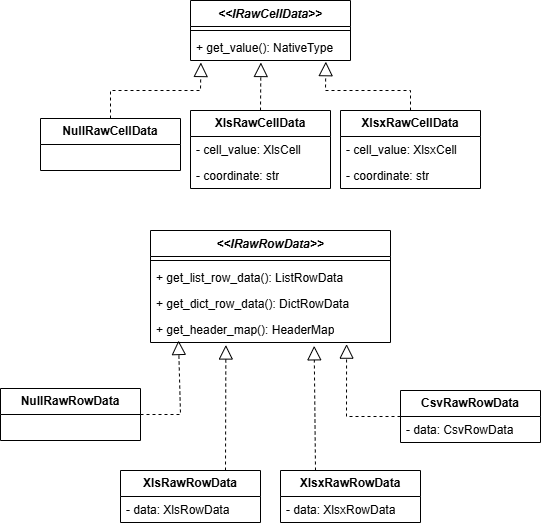
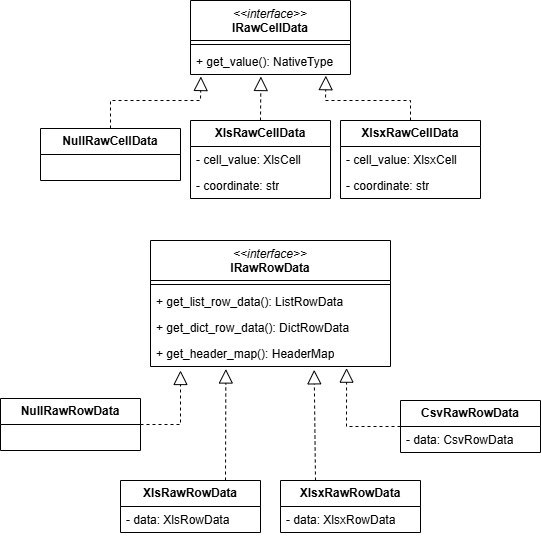
Squashed 'text/' changes from efe23f1..ae8d4e9
ae8d4e9 Update on Overleaf.

git-subtree-dir: text
git-subtree-split: ae8d4e9b5d9d9299ba617012026ecc32f024b474

diff --git a/ctufit-thesis.tex b/ctufit-thesis.tex
@@ -108,6 +108,7 @@
 \usepackage{xurl}
 \usepackage{listings} % typesetting of sources
 \usepackage{float}
+\usepackage{tabularx}
 %\usepackage{minted}
 
 %%%%%%%%%%%%%%%%%%%%%%
@@ -184,8 +185,20 @@
 \begin{tabular}{rl}
 	UI    & User Interface \\
     DIP   & Dependency Inversion Principle \\
+    OOP   & Object oriented programming \\
     XML   & Extensible Markup Language \\
     JSON  & JavaScript Object Notation \\
+    PyPI  & Python Package Index \\
+    RPA   & Robot Process Automation \\
+    HTTP  & HyperText Transfer Protocol \\
+    API   & Aplication Programing Interface \\
+    RF    & Robot Framework \\
+    DDT   & Data-Driven Tests \\
+    DOM   & Document Object Model \\
+    IDE   & Integrated Development Enviroment \\
+    BIFF8 & Binary Interchange File Format version 8 \\
+    DF    & DataFrame \\
+    
 \end{tabular}
 %%%%%%%%%%%%%%%%%%%
 % ABBREVIATIONS END